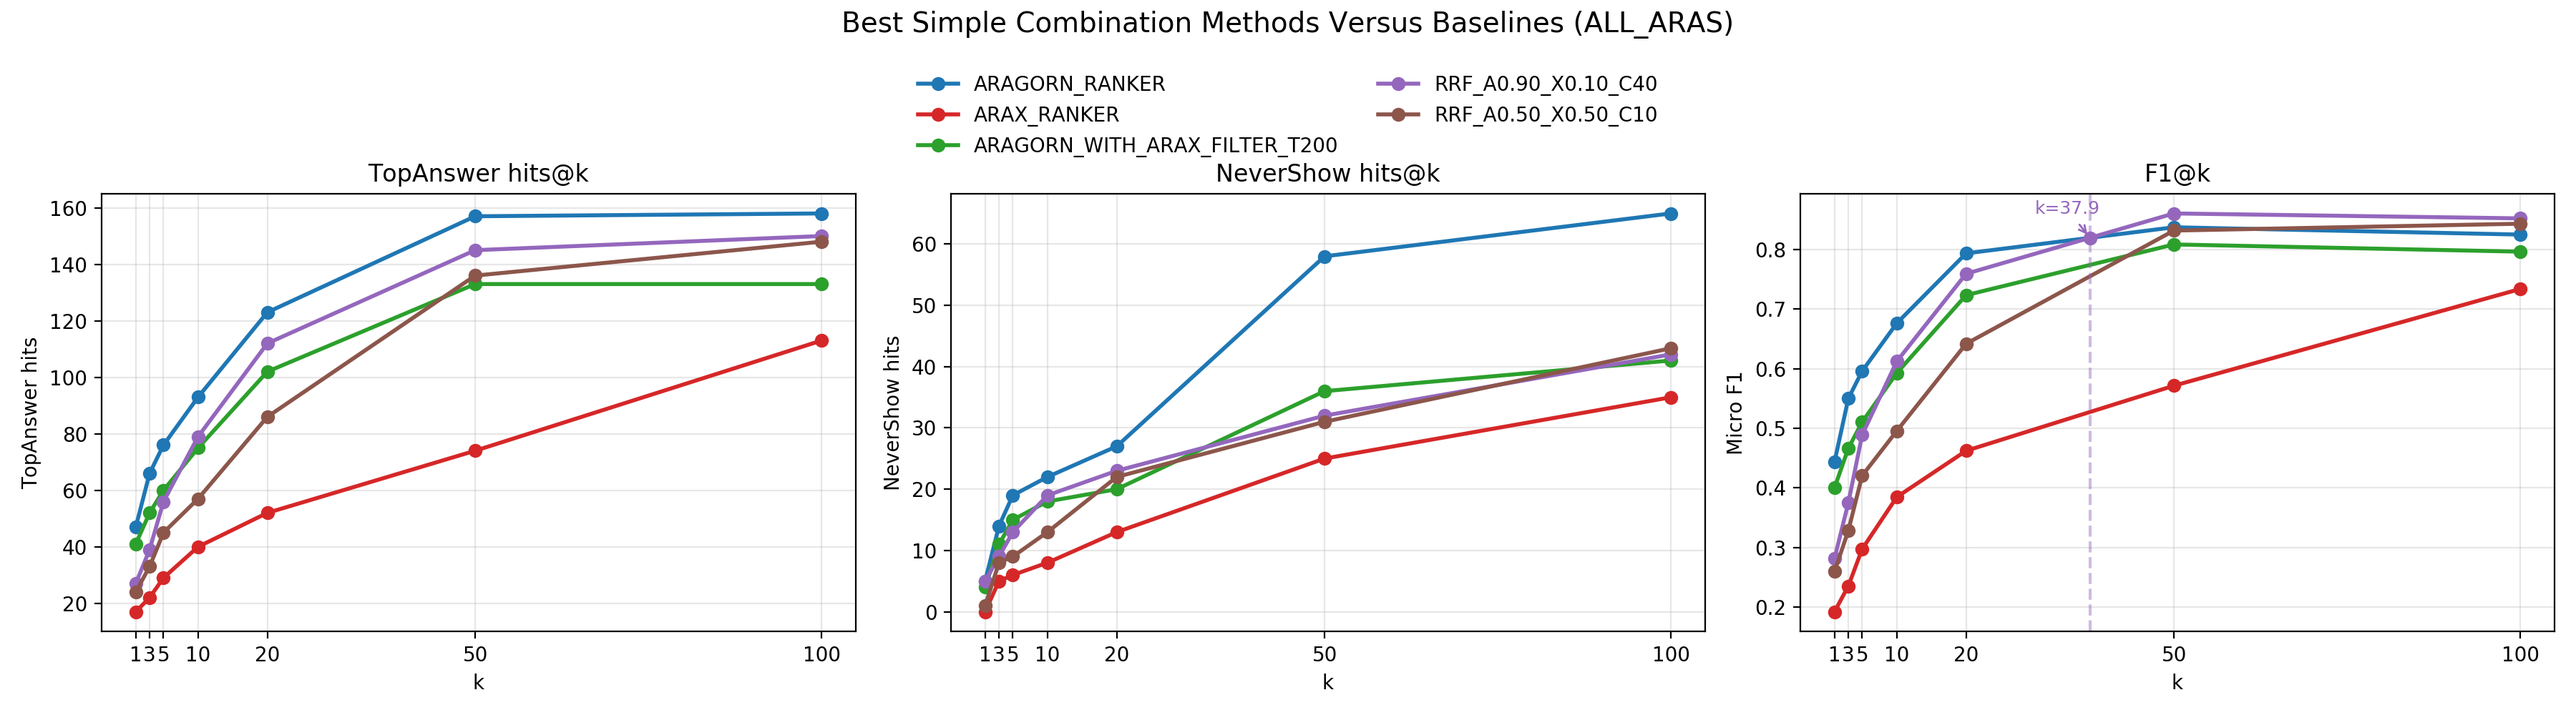
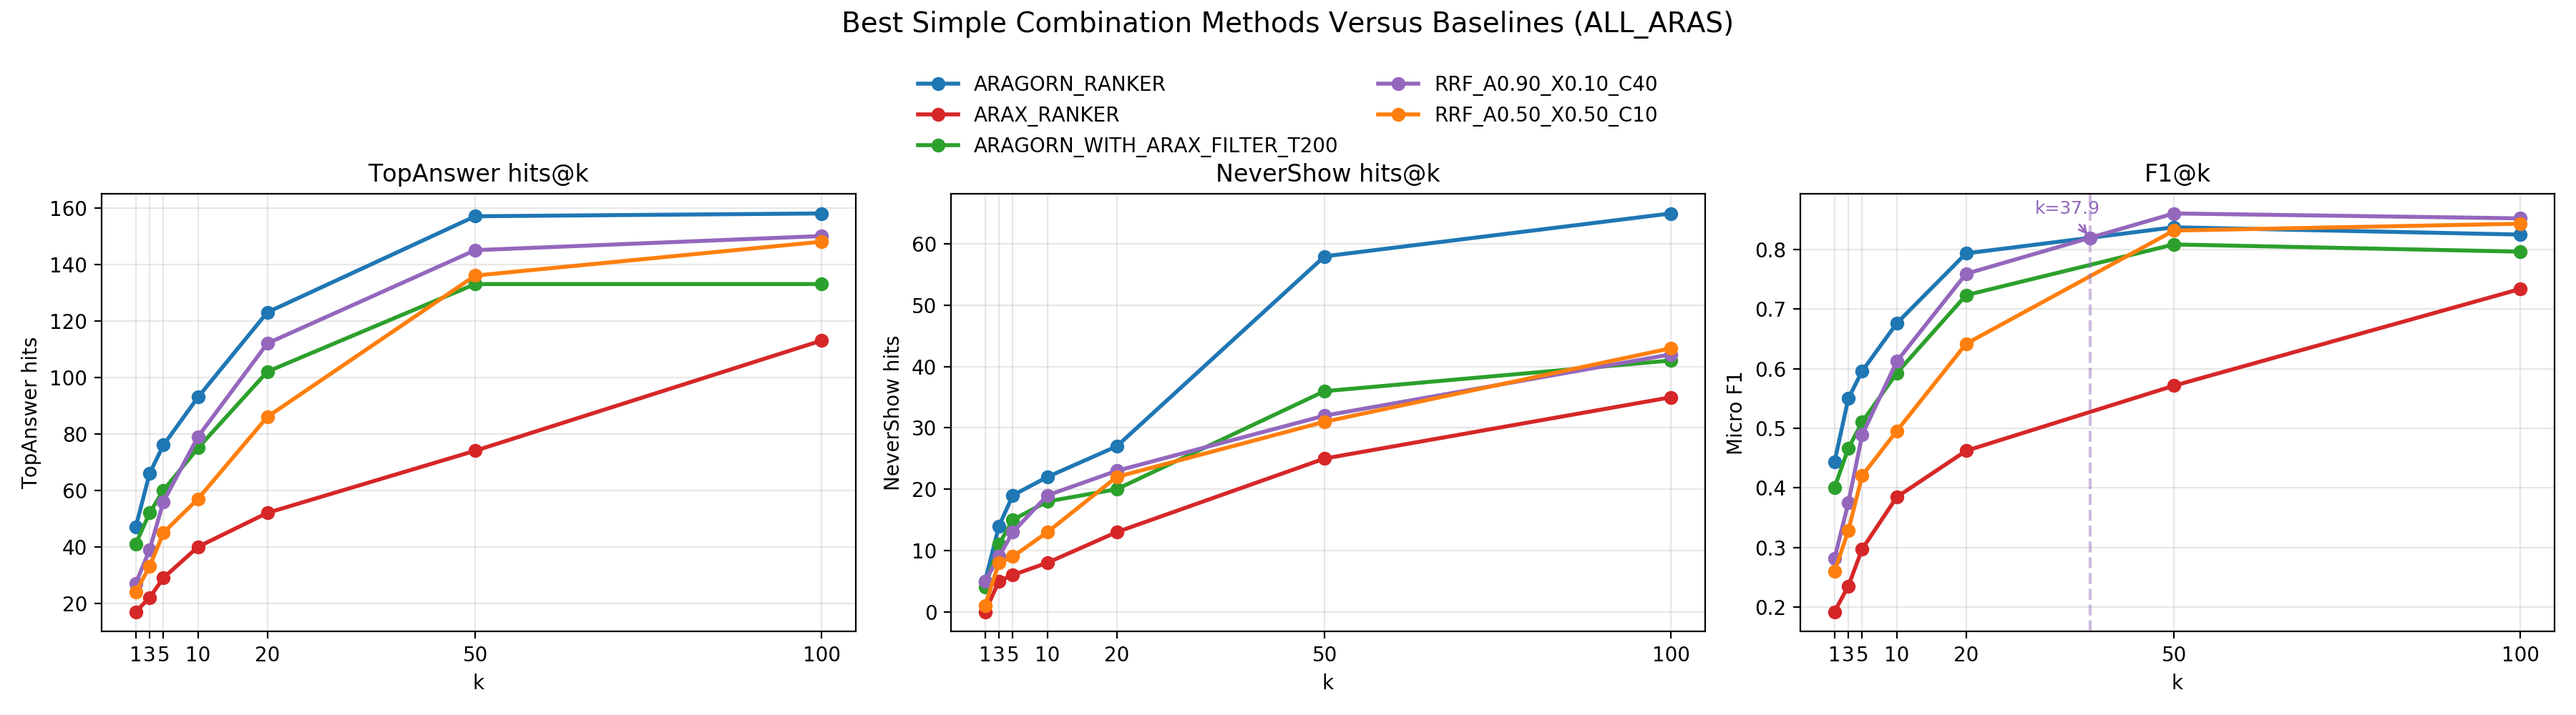
updated to a more contrasting color for equal-weight RRF option in the comparison plot

diff --git a/combine_rankers.py b/combine_rankers.py
@@ -814,7 +814,7 @@ def plot_best_method_comparison(
         RANKER_COLORS["ARAX_RANKER"],
         "#2ca02c",
         "#9467bd",
-        "#8c564b",
+        "#ff7f0e",
     ]
     method_colors = {
         method_name: color
